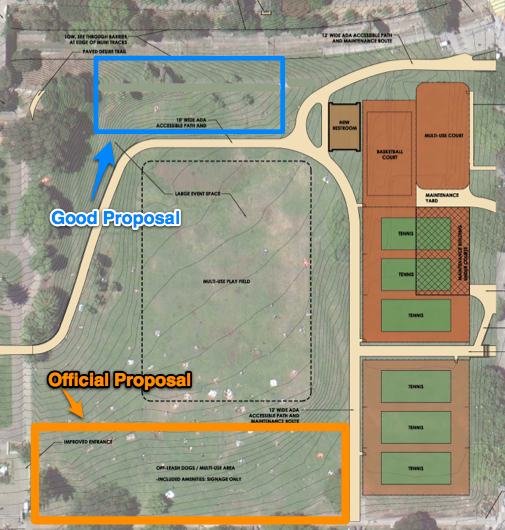
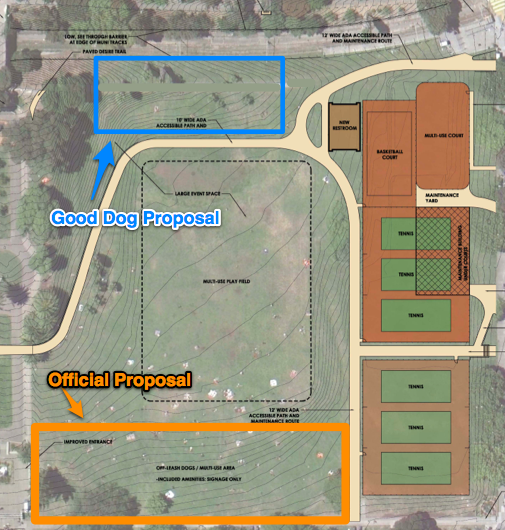
tweak caption; another minor editing pass

Changed region(s): [[0.2079, 0.3925, 0.4455, 0.4528]]

diff --git a/dolores/dogarea.html b/dolores/dogarea.html
@@ -22,7 +22,7 @@ h1 {
 
 <ul>
 <li>twitter: <a href="http://twitter.com/alexch">@alexch</a></li>
-<li>email: <a href="&#x6d;&#x61;&#x69;&#108;&#116;&#x6f;&#58;&#97;&#x6c;&#101;&#120;&#64;&#x73;&#x74;&#105;&#110;&#107;&#x79;&#46;&#x63;&#111;&#x6d;">&#x61;&#x6c;&#101;&#120;&#x40;&#x73;&#116;&#x69;&#x6e;&#x6b;&#121;&#46;&#99;&#111;&#x6d;</a></li>
+<li>email: <a href="&#109;&#97;&#x69;&#x6c;&#x74;&#111;&#58;&#x61;&#x6c;&#101;&#x78;&#x40;&#115;&#116;&#105;&#110;&#x6b;&#121;&#46;&#x63;&#111;&#109;">&#x61;&#x6c;&#101;&#x78;&#x40;&#115;&#x74;&#x69;&#110;&#107;&#x79;&#x2e;&#x63;&#111;&#109;</a></li>
 <li>web: <a href="http://alexchaffee.com">http://alexchaffee.com</a></li>
 <li>This document: <a href="http://alexchaffee.com/dolores/dogarea.html">http://alexchaffee.com/dolores/dogarea.html</a></li>
 </ul>
@@ -140,6 +140,8 @@ etc. in each area</li>
 
 <p><em>Possibility for conflict:</em> <strong>LOW</strong></p>
 
+<h1>Details</h1>
+
 <h2>Paths</h2>
 
 <p>I propose we remove a section of the current sidewalk path (going from the Muni stop up the hill to the steps just north of the bridge). This will compensate for the addition of a 10' wide path right nearby by regaining green lawn.</p>
@@ -150,25 +152,29 @@ etc. in each area</li>
 
 <h2>Amenities</h2>
 
-<p>Benches are very important for a dog area, and the current SW dog area points out (a) how well-used they are, and (b) how poorly placed benches can make a dog area worse. The benches are too close together, causing concentrated wear on the ground around the benches, and they face the wrong direction, forcing owners to crane their necks, and encouraging play on the uphill</p>
+<p>Benches are very important for a dog area, and the current SW dog area points out (a) how well-used they are, and (b) how poorly placed benches can make a dog area worse. The benches are too close together, causing concentrated wear on the ground around the benches, and they face the wrong direction, forcing owners to crane their necks to supervise their pets, and forcing them to stand up and walk around if they need to grab them.</p>
 
 <p>A NW dog area should have benches facing the lawn and hill down to the soccer field. These benches would be appreciated and used by non-dog-owners too, just like the benches currently lining the path above the SW dog area.</p>
 
 <p>Also, any dog area worth the name should have a fountain, both for dogs to drink and for owners to wash their dirty pets before leaving.</p>
 
-<p>It is horrifying to imagine putting benches or fountains in the middle of hipster hill. Even if a fountain is placed outside the tennis court, it would be inconvenient for dogs playing 100' away on the lawn. And tennis players would likely not appreciate sharing a fountain with muddy slobbering dogs (another potential source of conflict).</p>
+<p>It is horrifying to imagine putting benches or fountains in the middle of Hipster Hill. Even if a fountain is placed outside the tennis court, it would be inconvenient for dogs playing 100' away on the lawn. And tennis players would likely not appreciate sharing a fountain with muddy slobbering dogs (another potential source of conflict).</p>
 
-<p>More on benches:
-  * dog area benches should <em>face</em> where the dogs play, and not be placed in the middle of a lawn
-  * benches allow dog owners to chill out and supervise their dogs
-  * benches also provide a "safe zone" where dogs can retreat when play gets too rough
-  * benches should be spaced out enough that the abuse of the lawn around them is not multiplied</p>
+<p>More bench design thoughts:</p>
+
+<ul>
+<li>dog area benches should <em>face</em> where the dogs play, and not be placed in the middle of a lawn</li>
+<li>benches allow dog owners to chill out and supervise their dogs</li>
+<li>benches also provide a "safe zone" where dogs can retreat when play gets too rough</li>
+<li>benches should be spaced out enough that the abuse of the lawn around them is not multiplied</li>
+</ul>
+
 
 <h2>Fences</h2>
 
 <p>The NW dog area depends on a reliable fence between the muni tracks and the park. This is mandated by safety concerns anyway.</p>
 
-<p>The ADA path will be downhill of the NW dog area, providing a natural boundary, as well as a retaining wall. It's not clear to me that any more fencing would be necessary or desirable between the hill and the path.</p>
+<p>The ADA path will be downhill of the NW dog area, providing a natural boundary, as well as a retaining wall. It's not clear to me that any more fencing would be necessary or desirable uphill of the path.</p>
 
 <h1>Maps and photos</h1>
 
@@ -183,59 +189,68 @@ etc. in each area</li>
 
 <p><img src="dogarea.png" alt="NE Dog Area" /></p>
 
-<p>As an aside, I find it deeply amusing that the aerial map used to demonstrate the NE dog area shows several dozen picnic blankets laid out right inside the boundary, presumably occupied by sunbathers and couples who would not appreciate a dog playing fetch on top of them.</p>
+<p>(As an aside, I find it deeply amusing that the aerial map used to demonstrate the NE dog area shows several dozen picnic blankets laid out right inside the boundary, presumably occupied by sunbathers and couples who might not appreciate a pack of dogs running among them.)</p>
 
-<h1>FAQ (straw man / devil's advocate)</h1>
-
-<h2>Why are you claiming both western hillsides?</h2>
-
-<ol>
-<li>we're not claiming anything; we're providing a place where dog owners can retire to avoid conflicts with other park users, but most of the time the area would be open, relatively dog-free, and multi-use</li>
-<li>there are many other hillsides in the park, including one right nearby (see map) with an even better view of downtown and the event field</li>
-</ol>
-
+<h1>FAQ</h1>
 
 <h2>Isn't this a land grab by the dog people?</h2>
 
 <p>No; if you check the maps you'll see that the area allowing off-leash dogs on the north field is significantly reduced.</p>
 
-<p>[find current RPD dog map too]</p>
+<p>[todo: find current RPD dog map too]</p>
 
 <p>But, even though it is smaller, it is plenty big enough to provide some good ball-tossing and chasing space.</p>
 
-<h2>Isn't the hill too hilly?</h2>
+<h2>Why are you claiming both western hillsides?</h2>
 
-<p>Maybe. But it's not much steeper than Hipster Hill. And the ADA path will require a retaining wall above it, which will level it out some. It's also possible to regrade it slightly while retaining its character.</p>
+<ol>
+<li>we're not claiming anything; we're providing a place where dog owners can retire to avoid conflicts with other park users, but most of the time the area would be open, relatively dog-free, and multi-use</li>
+<li>there are many other hillsides in the park, including one just around the bend with an even better view of downtown and the event field</li>
+<li>if there's an event that brings a lot of people to the north field, dogs can and should move to the south field... and vice versa</li>
+</ol>
+
+
+<h2>Isn't the hill too hilly for dogs?</h2>
+
+<p>Maybe. But it's not much steeper than Hipster Hill. And the ADA path will require a retaining wall above it, which will level it out some. It's also possible to use the renovation machinery to regrade it slightly while retaining its essential bowl-shaped character.</p>
 
 <h2>But what about the hill down to the tracks?</h2>
 
-<p>That hill is a complete distaster. It's too steep to use, and if a person or a dog walks down it without slipping, they emerge on the dangerous muni tracks. In my opinion there needs to be a high wall lining the muni tunnel, with a fence to keep people from falling over. That would allow <em>more</em> flat space, and would be a great place to put some benches facing the field and the downtown skyline.</p>
+<p>That hill is a complete distaster. It's too steep to use, and if a person or a dog succeeds in walking down it without slipping, they emerge on the dangerous Muni tracks. In my opinion there needs to be a wall lining Muni Canyon, with a fence to keep people and animals from falling in. That would allow <em>more</em> flat green space in the park proper, and against the fence would be a great place to put some benches facing the field and the downtown skyline.</p>
 
 <h2>Doesn't the NW dog area encroach on the soccer field?</h2>
 
-<p>No, it's actually about the same distance from the edge of the flat field, and arguably encroaches <em>less</em> since it's separated by a slope and the ADA path.</p>
+<p>No, it's actually about the same distance from the edge of the flat field, and arguably encroaches <em>less</em> since it's separated by some altitude and the ADA path.</p>
 
-<h2>Won't this lead to chaos?</h2>
+<h2>Won't all these dog areas lead to chaos?</h2>
 
-<p>Probably not. If you think about it, the current free-for-all system works pretty well.</p>
+<p>Probably not. If you think about it, the current free-for-all system is not ideal, but it works pretty well. For example:</p>
 
 <ul>
 <li>Currently roughly 80% of the lawn space in Dolores Park is effectively off-leash.</li>
-<li>The area bordering 20th St., near the playground, is by social convention leash-only</li>
+<li>The area bordering 20th St., near the playground, is by social convention leash-only.</li>
 <li>When large picnicking crowds gather, the dog owners usually gravitate away.</li>
 <li>Dog owners don't like it when their dogs beg for sandwiches any more than the sandwich eaters do.</li>
 </ul>
 
 
-<p>Most conflicts I've seen have been between two dog owners; when a dog has bothered a human, the owner has been polite and got the dog out of there and the conflict was resolved amicably. But when two dog owners start yelling at each other, or a non-dog-owner feels threatened, that can escalate into a real aggressive conflict. (Not fun!)</p>
+<p>Most conflicts I've seen have been between two dog owners; when a dog has bothered a human, the owner has been polite and apologetic and got the dog out of there, and the conflict was resolved amicably. But when two dog owners start yelling at each other, or a non-dog-owner feels threatened, that can escalate into a real aggressive conflict. (Not fun!)</p>
 
-<blockquote><p>Therefore it's essential that when a conflict arises, there is somewhere for the dog and owner to go.</p></blockquote>
+<blockquote><p>Therefore it's essential that when a conflict arises, there is a designated space for the dog and owner to go.</p></blockquote>
 
 <h2>So I can't play fetch on the north field anymore?</h2>
 
-<p>I'm not telling anyone what they can't do. I'm sure that people will continue to walk their dogs all across the park, in the mornings, and rainy afternoons, as they do now without harm.</p>
+<p>I'm not telling anyone what they can't do. I'm sure that people will continue to run their dogs all across the park, in the mornings, and cloudy afternoons, as they do now without harm.</p>
 
 <p>This proposal attempts to predict and react to a park which has been getting more and more users, and to design some practical guidelines for when there <em>is</em> a conflict.</p>
+
+<h1>Conclusion</h1>
+
+<p>More benches! No fences! More shade trees!</p>
+
+<p>Share the park.</p>
+
+<p>Coexist.</p>
 
 <h1>References</h1>
 

diff --git a/dolores/dogarea.md b/dolores/dogarea.md
@@ -88,6 +88,8 @@ Finally The biggest problem with that area is that it's already claimed by the h
 
 *Possibility for conflict:* **LOW**
 
+# Details
+
 ## Paths
 
 I propose we remove a section of the current sidewalk path (going from the Muni stop up the hill to the steps just north of the bridge). This will compensate for the addition of a 10' wide path right nearby by regaining green lawn.
@@ -98,15 +100,16 @@ If people want to walk, or jog, in a straight line along that side of the park, 
 
 ## Amenities
 
-Benches are very important for a dog area, and the current SW dog area points out (a) how well-used they are, and (b) how poorly placed benches can make a dog area worse. The benches are too close together, causing concentrated wear on the ground around the benches, and they face the wrong direction, forcing owners to crane their necks, and encouraging play on the uphill
+Benches are very important for a dog area, and the current SW dog area points out (a) how well-used they are, and (b) how poorly placed benches can make a dog area worse. The benches are too close together, causing concentrated wear on the ground around the benches, and they face the wrong direction, forcing owners to crane their necks to supervise their pets, and forcing them to stand up and walk around if they need to grab them.
 
 A NW dog area should have benches facing the lawn and hill down to the soccer field. These benches would be appreciated and used by non-dog-owners too, just like the benches currently lining the path above the SW dog area.
 
 Also, any dog area worth the name should have a fountain, both for dogs to drink and for owners to wash their dirty pets before leaving.
 
-It is horrifying to imagine putting benches or fountains in the middle of hipster hill. Even if a fountain is placed outside the tennis court, it would be inconvenient for dogs playing 100' away on the lawn. And tennis players would likely not appreciate sharing a fountain with muddy slobbering dogs (another potential source of conflict).
+It is horrifying to imagine putting benches or fountains in the middle of Hipster Hill. Even if a fountain is placed outside the tennis court, it would be inconvenient for dogs playing 100' away on the lawn. And tennis players would likely not appreciate sharing a fountain with muddy slobbering dogs (another potential source of conflict).
 
-More on benches:
+More bench design thoughts:
+
   * dog area benches should *face* where the dogs play, and not be placed in the middle of a lawn
   * benches allow dog owners to chill out and supervise their dogs
   * benches also provide a "safe zone" where dogs can retreat when play gets too rough
@@ -116,7 +119,7 @@ More on benches:
 
 The NW dog area depends on a reliable fence between the muni tracks and the park. This is mandated by safety concerns anyway.
 
-The ADA path will be downhill of the NW dog area, providing a natural boundary, as well as a retaining wall. It's not clear to me that any more fencing would be necessary or desirable between the hill and the path.
+The ADA path will be downhill of the NW dog area, providing a natural boundary, as well as a retaining wall. It's not clear to me that any more fencing would be necessary or desirable uphill of the path.
 
 # Maps and photos
 
@@ -128,53 +131,62 @@ The ADA path will be downhill of the NW dog area, providing a natural boundary, 
 
 ![NE Dog Area](dogarea.png)
 
-As an aside, I find it deeply amusing that the aerial map used to demonstrate the NE dog area shows several dozen picnic blankets laid out right inside the boundary, presumably occupied by sunbathers and couples who would not appreciate a dog playing fetch on top of them.
+(As an aside, I find it deeply amusing that the aerial map used to demonstrate the NE dog area shows several dozen picnic blankets laid out right inside the boundary, presumably occupied by sunbathers and couples who might not appreciate a pack of dogs running among them.)
 
-# FAQ (straw man / devil's advocate)
-
-## Why are you claiming both western hillsides?
-
-1. we're not claiming anything; we're providing a place where dog owners can retire to avoid conflicts with other park users, but most of the time the area would be open, relatively dog-free, and multi-use
-2. there are many other hillsides in the park, including one right nearby (see map) with an even better view of downtown and the event field
+# FAQ
 
 ## Isn't this a land grab by the dog people?
 
 No; if you check the maps you'll see that the area allowing off-leash dogs on the north field is significantly reduced.
 
-[find current RPD dog map too]
+[todo: find current RPD dog map too]
 
 But, even though it is smaller, it is plenty big enough to provide some good ball-tossing and chasing space.
 
-## Isn't the hill too hilly?
+## Why are you claiming both western hillsides?
 
-Maybe. But it's not much steeper than Hipster Hill. And the ADA path will require a retaining wall above it, which will level it out some. It's also possible to regrade it slightly while retaining its character.
+1. we're not claiming anything; we're providing a place where dog owners can retire to avoid conflicts with other park users, but most of the time the area would be open, relatively dog-free, and multi-use
+2. there are many other hillsides in the park, including one just around the bend with an even better view of downtown and the event field
+3. if there's an event that brings a lot of people to the north field, dogs can and should move to the south field... and vice versa
+
+## Isn't the hill too hilly for dogs?
+
+Maybe. But it's not much steeper than Hipster Hill. And the ADA path will require a retaining wall above it, which will level it out some. It's also possible to use the renovation machinery to regrade it slightly while retaining its essential bowl-shaped character.
 
 ## But what about the hill down to the tracks?
 
-That hill is a complete distaster. It's too steep to use, and if a person or a dog walks down it without slipping, they emerge on the dangerous muni tracks. In my opinion there needs to be a high wall lining the muni tunnel, with a fence to keep people from falling over. That would allow *more* flat space, and would be a great place to put some benches facing the field and the downtown skyline.
+That hill is a complete distaster. It's too steep to use, and if a person or a dog succeeds in walking down it without slipping, they emerge on the dangerous Muni tracks. In my opinion there needs to be a wall lining Muni Canyon, with a fence to keep people and animals from falling in. That would allow *more* flat green space in the park proper, and against the fence would be a great place to put some benches facing the field and the downtown skyline.
 
 ## Doesn't the NW dog area encroach on the soccer field?
 
-No, it's actually about the same distance from the edge of the flat field, and arguably encroaches *less* since it's separated by a slope and the ADA path.
+No, it's actually about the same distance from the edge of the flat field, and arguably encroaches *less* since it's separated by some altitude and the ADA path.
 
-## Won't this lead to chaos?
+## Won't all these dog areas lead to chaos?
 
-Probably not. If you think about it, the current free-for-all system works pretty well.
+Probably not. If you think about it, the current free-for-all system is not ideal, but it works pretty well. For example:
 
   * Currently roughly 80% of the lawn space in Dolores Park is effectively off-leash.
-  * The area bordering 20th St., near the playground, is by social convention leash-only
+  * The area bordering 20th St., near the playground, is by social convention leash-only.
   * When large picnicking crowds gather, the dog owners usually gravitate away.
   * Dog owners don't like it when their dogs beg for sandwiches any more than the sandwich eaters do.
 
-Most conflicts I've seen have been between two dog owners; when a dog has bothered a human, the owner has been polite and got the dog out of there and the conflict was resolved amicably. But when two dog owners start yelling at each other, or a non-dog-owner feels threatened, that can escalate into a real aggressive conflict. (Not fun!)
+Most conflicts I've seen have been between two dog owners; when a dog has bothered a human, the owner has been polite and apologetic and got the dog out of there, and the conflict was resolved amicably. But when two dog owners start yelling at each other, or a non-dog-owner feels threatened, that can escalate into a real aggressive conflict. (Not fun!)
 
-  > Therefore it's essential that when a conflict arises, there is somewhere for the dog and owner to go.
+  > Therefore it's essential that when a conflict arises, there is a designated space for the dog and owner to go.
 
 ## So I can't play fetch on the north field anymore?
 
-I'm not telling anyone what they can't do. I'm sure that people will continue to walk their dogs all across the park, in the mornings, and rainy afternoons, as they do now without harm.
+I'm not telling anyone what they can't do. I'm sure that people will continue to run their dogs all across the park, in the mornings, and cloudy afternoons, as they do now without harm.
 
 This proposal attempts to predict and react to a park which has been getting more and more users, and to design some practical guidelines for when there *is* a conflict.
+
+# Conclusion
+
+More benches! No fences! More shade trees!
+
+Share the park.
+
+Coexist.
 
 # References
 
